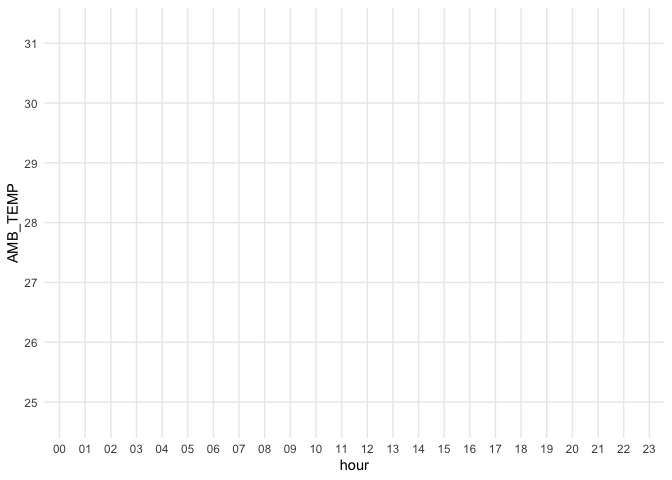
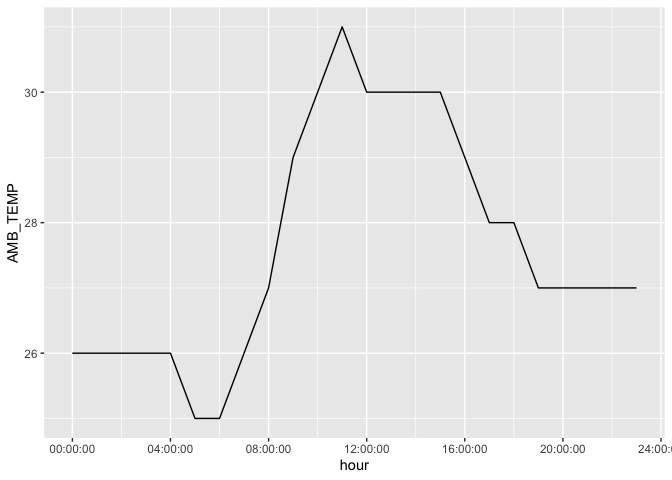
redoing assingments

diff --git a/problem_sets/assignment_6.md b/problem_sets/assignment_6.md
@@ -225,94 +225,125 @@ weather <- read_delim(
 ## 2.2 Data tidying
 
 ``` r
-url <- "https://raw.githubusercontent.com/nt246/NTRES-6100-data-science/master/datasets/2015y_Weather_Station.csv"
+library(readr) #install.packages("readr")
+library(tidyverse)
+library(lubridate)
 
+weather_Taiwan <- read_csv(
+  "https://raw.githubusercontent.com/nt246/NTRES-6100-data-science/master/datasets/2015y_Weather_Station.csv",
+  col_names = TRUE,
+  col_types = cols(.default = "c")
+)
 
-weather <- read_csv(url)
-weather <- read_csv("https://raw.githubusercontent.com/nt246/NTRES-6100-data-science/master/datasets/2015y_Weather_Station.csv")
-
-
- 
-head(weather,6) %>% select(1:10)
+weather_Taiwan
 ```
 
-    # A tibble: 6 × 10
-      date       station item      `00`  `01`  `02`  `03` `04`   `05`  `06`
-      <date>     <chr>   <chr>    <dbl> <dbl> <dbl> <dbl> <chr> <dbl> <dbl>
-    1 2015-01-01 Cailiao AMB_TEMP 16     16   15    15    15    14    14   
-    2 2015-01-01 Cailiao CO        0.74   0.7  0.66  0.61 0.51   0.51  0.51
-    3 2015-01-01 Cailiao NO        1      0.8  1.1   1.7  2      1.7   1.9 
-    4 2015-01-01 Cailiao NO2      15     13   13    12    11    13    13   
-    5 2015-01-01 Cailiao NOx      16     14   14    13    13    15    15   
-    6 2015-01-01 Cailiao O3       35     36   35    34    34    32    30   
+    # A tibble: 5,460 × 27
+       date      station item  `00`  `01`  `02`  `03`  `04`  `05`  `06`  `07`  `08` 
+       <chr>     <chr>   <chr> <chr> <chr> <chr> <chr> <chr> <chr> <chr> <chr> <chr>
+     1 2015/01/… Cailiao AMB_… 16    16    15    15    15    14    14    14    14   
+     2 2015/01/… Cailiao CO    0.74  0.7   0.66  0.61  0.51  0.51  0.51  0.6   0.62 
+     3 2015/01/… Cailiao NO    1     0.8   1.1   1.7   2     1.7   1.9   2.4   3.4  
+     4 2015/01/… Cailiao NO2   15    13    13    12    11    13    13    16    16   
+     5 2015/01/… Cailiao NOx   16    14    14    13    13    15    15    18    19   
+     6 2015/01/… Cailiao O3    35    36    35    34    34    32    30    26    26   
+     7 2015/01/… Cailiao PM10  171   174   160   142   123   110   104   104   109  
+     8 2015/01/… Cailiao PM2.5 76    78    69    60    52    44    40    41    44   
+     9 2015/01/… Cailiao RAIN… NR    NR    NR    NR    NR    NR    NR    NR    NR   
+    10 2015/01/… Cailiao RH    57    57    58    59    59    57    57    56    53   
+    # ℹ 5,450 more rows
+    # ℹ 15 more variables: `09` <chr>, `10` <chr>, `11` <chr>, `12` <chr>,
+    #   `13` <chr>, `14` <chr>, `15` <chr>, `16` <chr>, `17` <chr>, `18` <chr>,
+    #   `19` <chr>, `20` <chr>, `21` <chr>, `22` <chr>, `23` <chr>
 
 ``` r
-weather_untidy <- read_csv("https://raw.githubusercontent.com/nt246/NTRES-6100-data-science/master/datasets/2015y_Weather_Station.csv")
+head(weather_Taiwan, 10)
+```
 
+    # A tibble: 10 × 27
+       date      station item  `00`  `01`  `02`  `03`  `04`  `05`  `06`  `07`  `08` 
+       <chr>     <chr>   <chr> <chr> <chr> <chr> <chr> <chr> <chr> <chr> <chr> <chr>
+     1 2015/01/… Cailiao AMB_… 16    16    15    15    15    14    14    14    14   
+     2 2015/01/… Cailiao CO    0.74  0.7   0.66  0.61  0.51  0.51  0.51  0.6   0.62 
+     3 2015/01/… Cailiao NO    1     0.8   1.1   1.7   2     1.7   1.9   2.4   3.4  
+     4 2015/01/… Cailiao NO2   15    13    13    12    11    13    13    16    16   
+     5 2015/01/… Cailiao NOx   16    14    14    13    13    15    15    18    19   
+     6 2015/01/… Cailiao O3    35    36    35    34    34    32    30    26    26   
+     7 2015/01/… Cailiao PM10  171   174   160   142   123   110   104   104   109  
+     8 2015/01/… Cailiao PM2.5 76    78    69    60    52    44    40    41    44   
+     9 2015/01/… Cailiao RAIN… NR    NR    NR    NR    NR    NR    NR    NR    NR   
+    10 2015/01/… Cailiao RH    57    57    58    59    59    57    57    56    53   
+    # ℹ 15 more variables: `09` <chr>, `10` <chr>, `11` <chr>, `12` <chr>,
+    #   `13` <chr>, `14` <chr>, `15` <chr>, `16` <chr>, `17` <chr>, `18` <chr>,
+    #   `19` <chr>, `20` <chr>, `21` <chr>, `22` <chr>, `23` <chr>
 
-weather_long <- weather_untidy %>%
-  mutate(across(`00`:`23`, as.character)) %>% 
-  pivot_longer(
-    cols = `00`:`23`,
-    names_to = "hour",
-    values_to = "value"
-  )
+``` r
+weather_Taiwan_cleaned <- weather_Taiwan |>
+  pivot_longer(cols= '00':'23', names_to= "hour", values_to= "value") |>
+  pivot_wider(names_from = item, values_from = value) |>
+  mutate(RAINFALL = ifelse(RAINFALL == "NR", "0", RAINFALL)) |>
+  mutate(date = as.Date(date),
+         across(AMB_TEMP:PM10, as.numeric),
+         hour = hms :: as_hms(paste0(hour, ":00:00")))
 
-weather_tidy <- weather_long %>%
-  pivot_wider(
-    names_from = item,
-    values_from = value
-  )
-
- 
-head(weather_tidy,6) %>% select(1:10)
+weather_Taiwan_cleaned |>
+  select(1:10) |>
+  head()
 ```
 
     # A tibble: 6 × 10
-      date       station hour  AMB_TEMP CO    NO    NO2   NOx   O3    PM10 
-      <date>     <chr>   <chr> <chr>    <chr> <chr> <chr> <chr> <chr> <chr>
-    1 2015-01-01 Cailiao 00    16       0.74  1     15    16    35    171  
-    2 2015-01-01 Cailiao 01    16       0.7   0.8   13    14    36    174  
-    3 2015-01-01 Cailiao 02    15       0.66  1.1   13    14    35    160  
-    4 2015-01-01 Cailiao 03    15       0.61  1.7   12    13    34    142  
-    5 2015-01-01 Cailiao 04    15       0.51  2     11    13    34    123  
-    6 2015-01-01 Cailiao 05    14       0.51  1.7   13    15    32    110  
+      date       station hour   AMB_TEMP    CO    NO   NO2   NOx    O3  PM10
+      <date>     <chr>   <time>    <dbl> <dbl> <dbl> <dbl> <dbl> <dbl> <dbl>
+    1 2015-01-01 Cailiao 00:00        16  0.74   1      15    16    35   171
+    2 2015-01-01 Cailiao 01:00        16  0.7    0.8    13    14    36   174
+    3 2015-01-01 Cailiao 02:00        15  0.66   1.1    13    14    35   160
+    4 2015-01-01 Cailiao 03:00        15  0.61   1.7    12    13    34   142
+    5 2015-01-01 Cailiao 04:00        15  0.51   2      11    13    34   123
+    6 2015-01-01 Cailiao 05:00        14  0.51   1.7    13    15    32   110
 
 ## 2.3 Using this cleaned dataset, plot the daily variation in ambient temperature on September 25, 2015, as shown below.
 
 ``` r
-weather_sep252015<- weather_tidy %>%
-  filter(date == as.Date("2015-09-25"))
-
-ggplot(weather_sep252015, aes(x = hour, y = AMB_TEMP)) +
-  geom_line(color = "Station") +
-  labs(x = "hour", y = "AMB_TEMP") +
-  theme_minimal() 
+weather_Taiwan_cleaned |>
+  filter(date == "2015-09-25") |>
+  ggplot(aes(x = hour, y=AMB_TEMP)) + geom_line()
 ```
 
 ![](assignment_6_files/figure-commonmark/unnamed-chunk-9-1.png)
 
-``` r
-ggplot(weather_sep252015, aes(x = hour, y = AMB_TEMP)) +
-  geom_line() + geom_point() +
-  labs(x = "Hour",
-    y = "AMB_TEMP"
-  )
-```
-
-![](assignment_6_files/figure-commonmark/unnamed-chunk-9-2.png)
-
 ## 2.4 Plot the daily average ambient temperature throughout the year with a continuous line, as shown below.
 
 ``` r
-daily_ave <- weather_tidy %>%
-  group_by(date) %>%
-  summarise(avg_temp = mean(AMB_TEMP, na.rm = TRUE))
-
-
-ggplot(daily_ave, aes(x = date, y= avg_temp)) + geom_line()
+weather_Taiwan_cleaned |> 
+  group_by(date) |>
+  summarize(daily_average_ambient_temp= mean(AMB_TEMP)) |>
+  ggplot(aes(x=date, y=daily_average_ambient_temp)) + geom_line()
 ```
 
 ![](assignment_6_files/figure-commonmark/unnamed-chunk-10-1.png)
 
 ## 2.5 Plot the total rainfall per month in a bar chart, as shown below.
+
+``` r
+weather_Taiwan_cleaned |> 
+  mutate(year = format(date, "%Y"), month = format(date, "%m"), day = format(date, "%d"), RAINFALL = as.numeric(RAINFALL))|>
+  group_by(month) |>
+  summarise(MonthlyRainfall = sum(RAINFALL, na.rm = TRUE)) |>
+  ggplot(aes(x=month, y=MonthlyRainfall)) + geom_col()
+```
+
+![](assignment_6_files/figure-commonmark/unnamed-chunk-11-1.png)
+
+\##2.6 Plot the per hour variation in PM2.5 in the first week of
+September with a continuous line, as shown below.
+
+``` r
+weather_Taiwan_cleaned |> 
+  filter(format(date, "%m") == "09", format(date, "%d") <= "07") |> 
+  mutate(time_str = paste(date, hour), PM2.5 = as.numeric(PM2.5)) |> 
+  mutate(time = parse_datetime(time_str, format = "%Y-%m-%d %H:%M:%S")) |> 
+  ggplot(aes(x = time, y = PM2.5)) +
+  geom_line()
+```
+
+![](assignment_6_files/figure-commonmark/unnamed-chunk-12-1.png)
